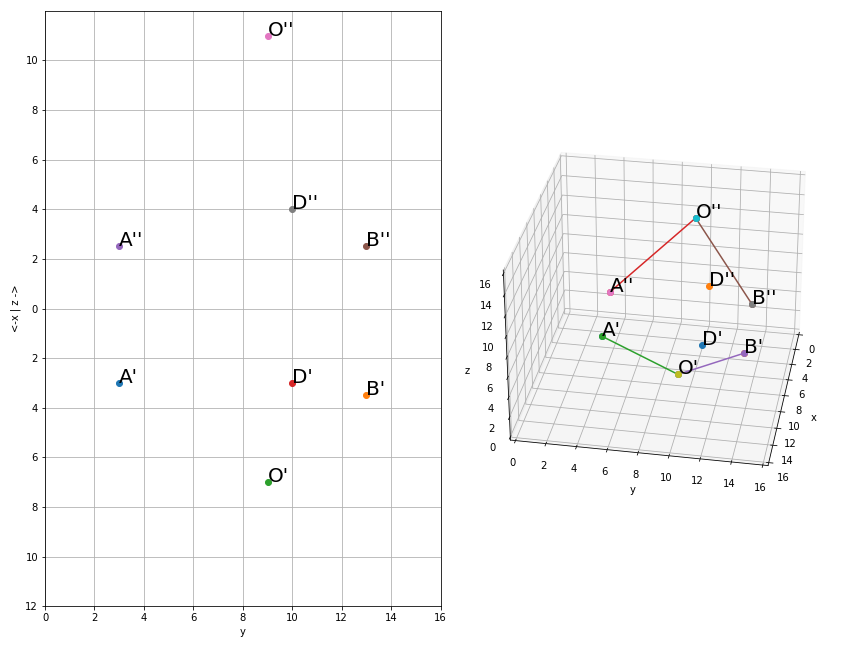
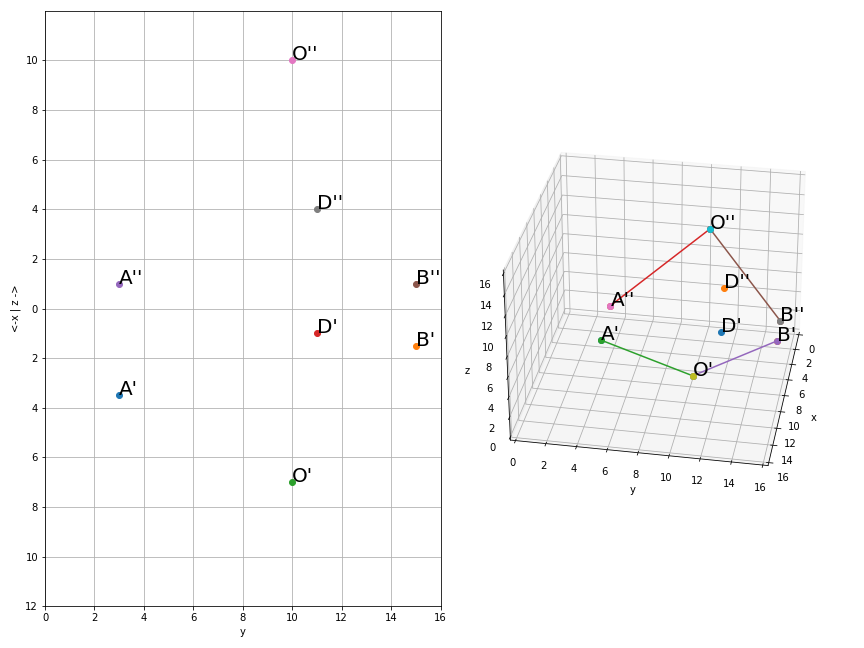
Daily upload - dgeometry

diff --git a/dgeometry.py b/dgeometry.py
@@ -514,6 +514,7 @@ class Point(Entity):
 
     def distance(self,other):
         return self._geo_ref.distance(other._geo_ref)
+
     
     def __xor__(self,other):
         if isinstance(other,Point):
@@ -582,6 +583,8 @@ class Line(Entity):
         
     def perpendicular_line(self, p):
         return entity_convert(self._geo_ref.perpendicular_line(p._geo_ref))
+    def parallel_line(self, p):
+        return entity_convert(self._geo_ref.parallel_line(p._geo_ref))
 
     @property
     def direction(self):
@@ -2373,93 +2376,81 @@ class PlanePerpendicularToPlaneIntersection(GeometricalCase):
 
         }
         return default_data_dict
-# class LineParallelToPlane(TwoPlanesIntersection):
+class LineParallelToPlane(TwoPlanesIntersection):
     
-#     point_A = [Point(x,y,z) for x in [4,4.5,5,5.5,6,6.5] for y in [2,2.5,3,3.5,4,4.5,5] for z in [1,1.5,2,2.5,3,3.5] ]
+    point_A = [Point(x,y,z) for x in [4,4.5,5,5.5,6,6.5] for y in [2,2.5,3,3.5,4,4.5,5] for z in [1,1.5,2,2.5,3,3.5] ]
 
-#     point_O = [Point(x,y,z) for x in range(7,11) for y in range(8,12) for z in range(8,12) ]
+    point_O = [Point(x,y,z) for x in range(7,11) for y in range(8,12) for z in range(8,12) ]
 
 
-#     point_B=[Point(x,y,z) for x in [1,1.5,2,2.5,3,3.5] for y in [13,13.5,14,14.5,15] for z in [1,1.5,2,2.5,3,3.5] ]
+    point_B=[Point(x,y,z) for x in [1,1.5,2,2.5,3,3.5] for y in [13,13.5,14,14.5,15] for z in [1,1.5,2,2.5,3,3.5] ]
 
-#     point_D=[Point(x,y,z) for x in [1,1.5,2,2.5,3,3.5] for y in [1,1.5,2,2.5,3,3.5] for z in range(8,12) ]
-#     point_E = [Point(x,y,z) for x in [7,7.5,8,8.5,9] for y in [7,7.5,8.5,9,9.5] for z in range(2,5) ]
+    point_D=[Point(x,y,z) for x in [1,1.5,2,2.5,3,3.5] for y in [1,1.5,2,2.5,3,3.5] for z in range(8,12) ]
+    point_E = [Point(x,y,z) for x in [7,7.5,8,8.5,9] for y in [7,7.5,8.5,9,9.5] for z in range(2,5) ]
 
-#     point_F = [Point(x,y,z) for x in  [1,1.5,2,2.5,3,3.5] for y in [10,10.5,11,11.5,12] for z in range(8,12) ]
+    point_F = [Point(x,y,z) for x in  [1,1.5,2,2.5,3,3.5] for y in [10,10.5,11,11.5,12] for z in range(8,12) ]
 
-#     def solution(self):
-# #         self._line=Line(self._point_N1,self._point_N2)
-#         current_obj=copy.deepcopy(self)
+    def solution(self):
+#         self._line=Line(self._point_N1,self._point_N2)
+        current_obj=copy.deepcopy(self)
         
-#         A=current_obj._point_A
-#         B=current_obj._point_B
-#         O=current_obj._point_O
-#         D=current_obj._point_D
-#         E=current_obj._point_E
-#         F=current_obj._point_F
+        A=current_obj._point_A
+        B=current_obj._point_B
+        O=current_obj._point_O
+        D=current_obj._point_D
+        E=current_obj._point_E
+        F=current_obj._point_F
         
-#         current_set=DrawingSet(*current_obj._solution_step[-1])
+        current_set=DrawingSet(*current_obj._solution_step[-1])
 
-#         base_plane=Plane(A,B,O)('base')
-#         line_a=Line(A,O)('a')
-#         line_b=Line(B,O)('b')
-#         line_d=Line(D,E)('d')
-#         line_f=Line(F,normal_vector(D-E))('f')
-#         line_q=line_f.intersection(base_plane)[0]('q')
-# #         point_G=line_f_on_AOB.intersection(line_a)[0]
-# #         point_H=line_f_on_AOB.intersection(line_b)[0]
-# # #         intersection_line=base_plane.intersection(cutting_plane)[0]('k')
-# #         P=base_plane.intersection(line_d)[0]('P')
-# #         Q=base_plane.intersection(line_f)[0]('Q')
-# #         intersection_line=Line(P,Q)('k')
-
+        base_plane=Plane(A,B,O)('base')
+        line_a=Line(A,O)('a')
+        line_b=Line(B,O)('b')
+        line_d=Line(D,E)('d')
+        line_f=line_d.parallel_line(F)('f')
+        edge_plane=Plane(line_f.p1,line_f.p2,line_f.p1@VPP)
+        line_q=edge_plane.intersection(base_plane)[0]('q')
+#         point_G=line_f_on_AOB.intersection(line_a)[0]
+#         point_H=line_f_on_AOB.intersection(line_b)[0]
+# #         intersection_line=base_plane.intersection(cutting_plane)[0]('k')
+#         P=base_plane.intersection(line_d)[0]('P')
+#         Q=base_plane.intersection(line_f)[0]('Q')
+#         intersection_line=Line(P,Q)('k')
         
-#         elems=[line_a,line_b,line_d,line_f,line_q]
-
         
-#         projections=[line_d@HPP,line_f@HPP,line_d@VPP,line_f@VPP,line_a@HPP,line_b@HPP,line_a@VPP,line_b@VPP,line_q@VPP,line_q@HPP]
-#         current_set+=[*elems,*projections]
-
-#         current_obj._solution_step.append(current_set)
-
-#         current_obj._assumptions=DrawingSet(*elems,*projections)
-
-#         return current_obj
-
-#     def get_default_data(self):
-
-#         point_A = self.__class__.point_A
-        
-#         point_O = self.__class__.point_O 
-        
-#         point_B=self.__class__.point_B
-        
-#         point_D=self.__class__.point_D
-#         point_E = self.__class__.point_E
-#         point_F = self.__class__.point_F
-        
-#         default_data_dict = {
-#             Symbol('A'): point_A,
-#             Symbol('B'): point_B,
-#             Symbol('O'): point_O,
-
-#             Symbol('D'): point_D,
-#             Symbol('E'): point_E,
-#             Symbol('F'): point_F,
-#         }
-#         return default_data_dict
-
-#     def get_random_parameters(self):
-
-#         parameters_dict=super().get_random_parameters()
-
-
-
-#         point_A=parameters_dict[Symbol('A')]
-#         point_B=parameters_dict[Symbol('B')] 
+        elems=[line_a,line_b,line_d,line_f,line_q]
 
         
-#         parameters_dict[Symbol('O')]=(point_A+point_B)*0.5+Point(0,0,5)
+        projections=[line_d@HPP,line_f@HPP,line_d@VPP,line_f@VPP,line_a@HPP,line_b@HPP,line_a@VPP,line_b@VPP,line_q@VPP,line_q@HPP]
+        current_set+=[*elems,*projections]
 
-#         return parameters_dict
-# LineParallelToPlane().from_random_data().solution()
+        current_obj._solution_step.append(current_set)
+
+        current_obj._assumptions=DrawingSet(*elems,*projections)
+
+        return current_obj
+
+    def get_default_data(self):
+
+        point_A = self.__class__.point_A
+        
+        point_O = self.__class__.point_O 
+        
+        point_B=self.__class__.point_B
+        
+        point_D=self.__class__.point_D
+        point_E = self.__class__.point_E
+        point_F = self.__class__.point_F
+        
+        default_data_dict = {
+            Symbol('A'): point_A,
+            Symbol('B'): point_B,
+            Symbol('O'): point_O,
+
+            Symbol('D'): point_D,
+            Symbol('E'): point_E,
+            Symbol('F'): point_F,
+        }
+        return default_data_dict
+
+
